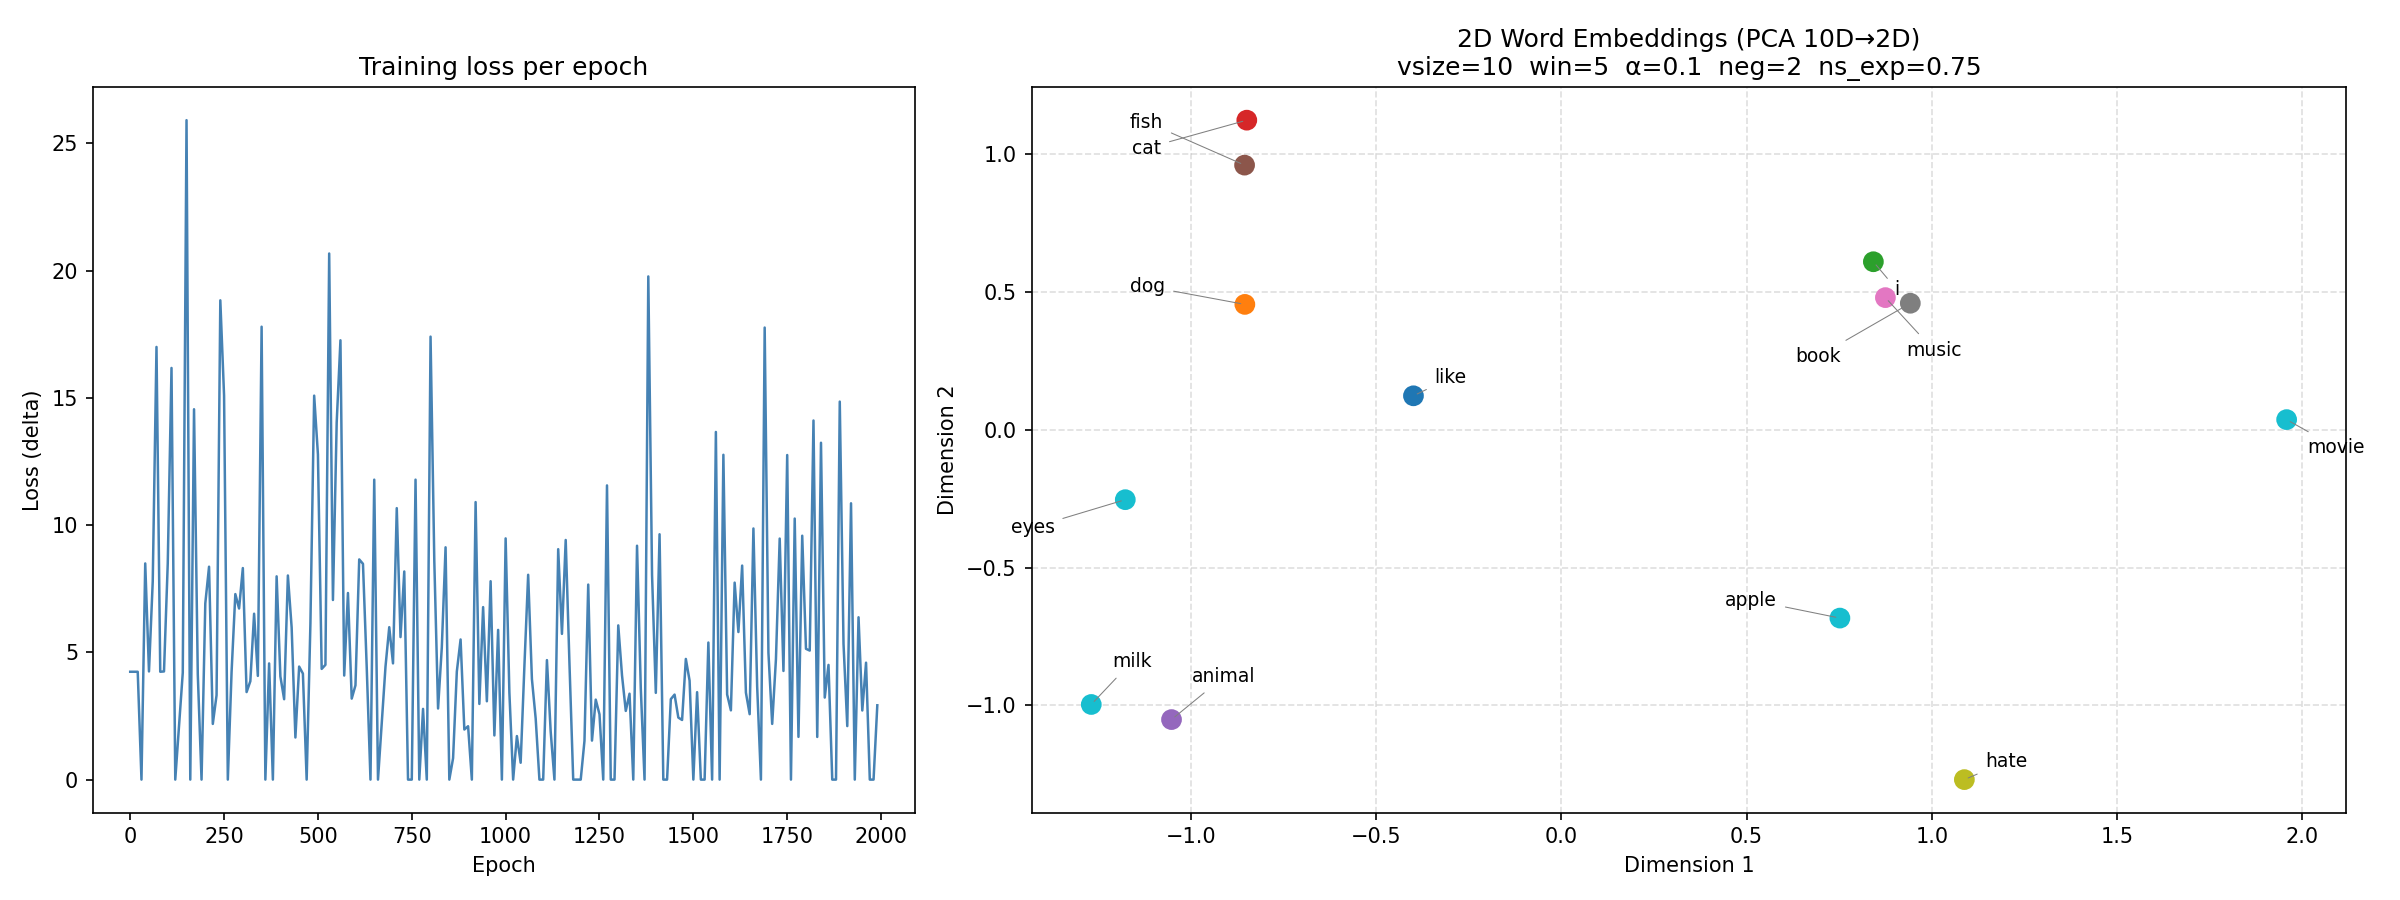
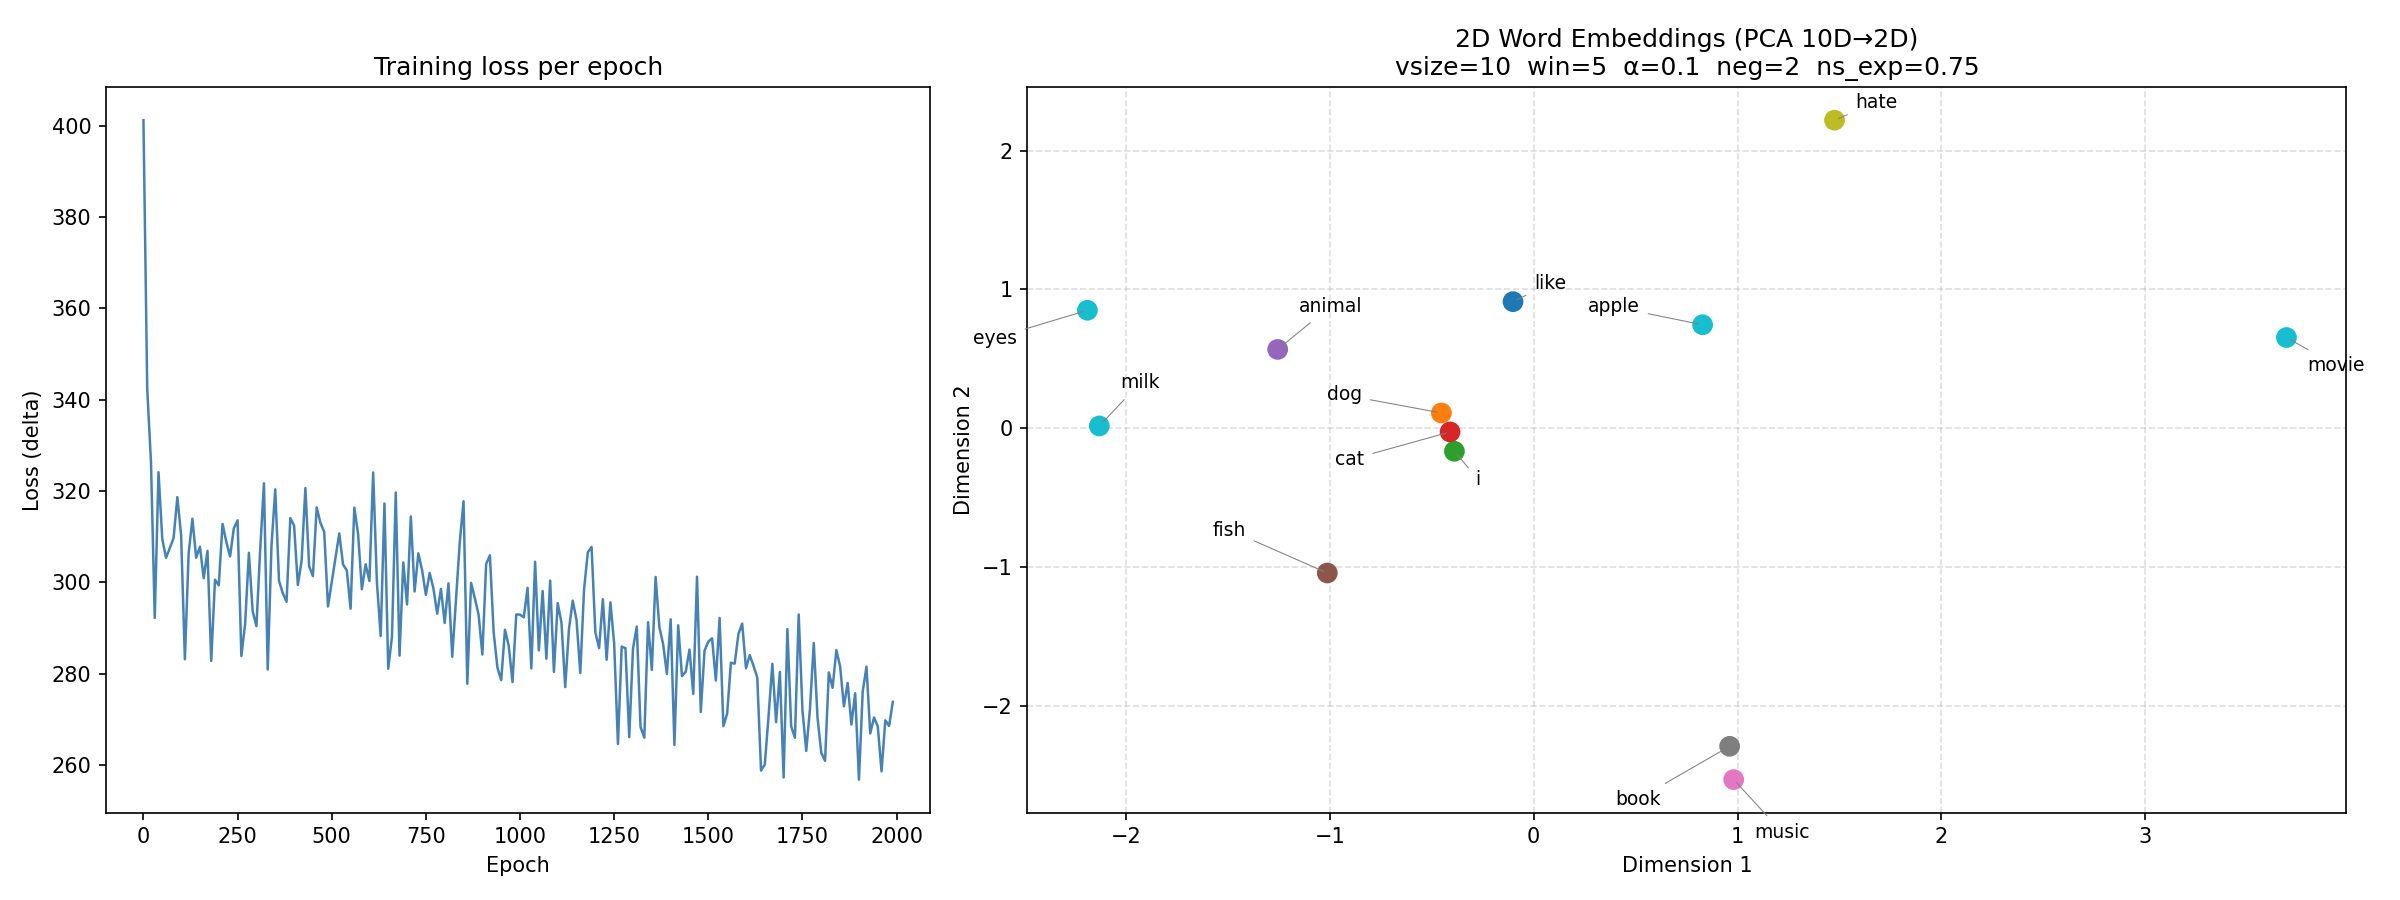
implemented few refactors to have a better code execution

diff --git a/Practice/word2Vec.py b/Practice/word2Vec.py
@@ -9,9 +9,15 @@ import matplotlib.pyplot as plt
 
 sentences = list(LineSentence("smallCorpora.txt"))
 
-FINE_TUNING = True
+FINE_TUNING = False
 FINAL_EPOCHS = 2000
 PRINT_EVERY = 200
+PATIENCE = 5      # consecutive PRINT_EVERY-interval checks with no improvement
+MIN_DELTA = 1.0   # minimum decrease in loss_delta between checks to count as progress
+
+
+class EarlyStopping(Exception):
+    pass
 
 
 class LossCallback(CallbackAny2Vec):
@@ -19,18 +25,42 @@ class LossCallback(CallbackAny2Vec):
         self._prev_loss = 0.0
         self._epoch = 0
         self.train_losses = []
+        self._prev_check_delta = float("inf")  # loss_delta at the previous checkpoint
+        self._no_improve_count = 0
+        self.converged_at = None
+        self.model = None  # updated every epoch so early stopping can retrieve it
 
     def on_epoch_end(self, model):
+        self.model = model  # always keep a live reference
         self._epoch += 1
         cumulative = model.get_latest_training_loss()
         delta = cumulative - self._prev_loss
         self.train_losses.append(delta)
         self._prev_loss = cumulative
+
         if self._epoch % PRINT_EVERY == 0:
-            print(f"  epoch {self._epoch:>6} | loss_delta = {delta:.4f}")
+            # compare this checkpoint's delta against the previous checkpoint's delta
+            if self._prev_check_delta - delta > MIN_DELTA:
+                self._no_improve_count = 0
+            else:
+                self._no_improve_count += 1
+            self._prev_check_delta = delta
+
+            print(
+                f"  epoch {self._epoch:>6} | loss_delta = {delta:.4f}"
+                f"  (no_improve={self._no_improve_count}/{PATIENCE})"
+            )
+
+            if self._no_improve_count >= PATIENCE:
+                self.converged_at = self._epoch
+                raise EarlyStopping(
+                    f"No improvement for {PATIENCE} checks — stopping at epoch {self._epoch}"
+                )
 
     def on_train_end(self, model):
         print(f"Training loss (last epoch): {self.train_losses[-1]:.4f}")
+        if self.converged_at:
+            print(f"Converged at epoch {self.converged_at} (early stopping).")
 
 
 _pos_pairs = [
@@ -51,44 +81,34 @@ def _project_2d(model):
     return {w: vecs[i] for i, w in enumerate(vocab)}
 
 
-def evaluate_2d(model):
-    """Mean cosine sim of positive pairs minus negative pairs, evaluated in 2D (PCA if needed)."""
-    wv2d = _project_2d(model)
+def evaluate(model):
+    """Mean cosine sim of positive pairs minus negative pairs, in full embedding space."""
 
     def mean_sim(pairs):
-        valid = [(a, b) for a, b in pairs if a in wv2d and b in wv2d]
+        valid = [(a, b) for a, b in pairs if a in model.wv and b in model.wv]
         if not valid:
             return 0.0
-        # cosine_similarities accepts plain numpy arrays, works on PCA vectors
-        sims = [
-            model.wv.cosine_similarities(wv2d[a], np.array([wv2d[b]]))[0]
-            for a, b in valid
-        ]
+        sims = [model.wv.similarity(a, b) for a, b in valid]
         return float(np.mean(sims))
 
     return mean_sim(_pos_pairs) - mean_sim(_neg_pairs)
 
 
-def most_similar_2d(model, word, topn=3):
-    wv2d = _project_2d(model)
-    if word not in wv2d:
+def most_similar(model, word, topn=3):
+    if word not in model.wv:
         return []
-    others = [(w, v) for w, v in wv2d.items() if w != word]
-    words, vecs = zip(*others)
-    scores = model.wv.cosine_similarities(wv2d[word], np.array(vecs))
-    ranked = sorted(zip(words, scores), key=lambda x: x[1], reverse=True)
-    return [(w, float(s)) for w, s in ranked[:topn]]
+    return [(w, float(s)) for w, s in model.wv.most_similar(word, topn=topn)]
 
 
 if FINE_TUNING:
     param_grid = {
         "vector_size": [5, 10, 15, 20, 30],
-        "window": [2, 3, 4, 5],
-        "alpha": [0.075, 0.1, 0.15, 0.2],
+        "window": [2, 3],
         # Num of diff words is 13 in that training dataset
+        "alpha": [0.075, 0.1, 0.15, 0.2],
         "negative": [2, 3, 4, 5, 7],
     }
-    SEARCH_EPOCHS = 1000
+    SEARCH_EPOCHS = 300
 
     total = 1
     for v in param_grid.values():
@@ -111,7 +131,7 @@ if FINE_TUNING:
             epochs=SEARCH_EPOCHS,
             **params,
         )
-        score = evaluate_2d(m)
+        score = evaluate(m)
         if score > best_score:
             best_score, best_params = score, params
             print(f"  ↑ new best  score={score:.4f}  params={params}")
@@ -132,27 +152,31 @@ else:
     }
 
 loss_cb = LossCallback()
-print(f"\nTraining Skip-Gram (negative sampling) for {FINAL_EPOCHS} epochs…")
+print(f"\nTraining Skip-Gram (negative sampling) for up to {FINAL_EPOCHS} epochs…")
 print(f"Params: {best_params}\n")
-model = Word2Vec(
-    sentences=sentences,
-    sg=1,
-    hs=0,
-    min_count=1,
-    workers=1,
-    seed=42,
-    compute_loss=True,
-    epochs=FINAL_EPOCHS,
-    callbacks=[loss_cb],
-    **best_params,
-)
+try:
+    model = Word2Vec(
+        sentences=sentences,
+        sg=1,
+        hs=0,
+        min_count=1,
+        workers=1,
+        seed=42,
+        compute_loss=True,
+        epochs=FINAL_EPOCHS,
+        callbacks=[loss_cb],
+        **best_params,
+    )
+except EarlyStopping as e:
+    print(f"\n[Early stopping] {e}")
+    model = loss_cb.model  # retrieve the partially-trained (but fully usable) model
 
-final_score = evaluate_2d(model)
-print(f"\nFinal evaluate_2d() score: {final_score:.4f}")
-print("\nmost_similar_2d() results:")
+final_score = evaluate(model)
+print(f"\nFinal evaluate() score: {final_score:.4f}")
+print("\nmost_similar() results:")
 for word in ["dog", "cat", "book", "fish", "music"]:
     if word in model.wv:
-        nbrs = [(w, round(s, 3)) for w, s in most_similar_2d(model, word, topn=3)]
+        nbrs = [(w, round(s, 3)) for w, s in most_similar(model, word, topn=3)]
         print(f"  {word:<8} → {nbrs}")
 
 fig, axes = plt.subplots(1, 2, figsize=(16, 6), gridspec_kw={"width_ratios": [1, 1.6]})